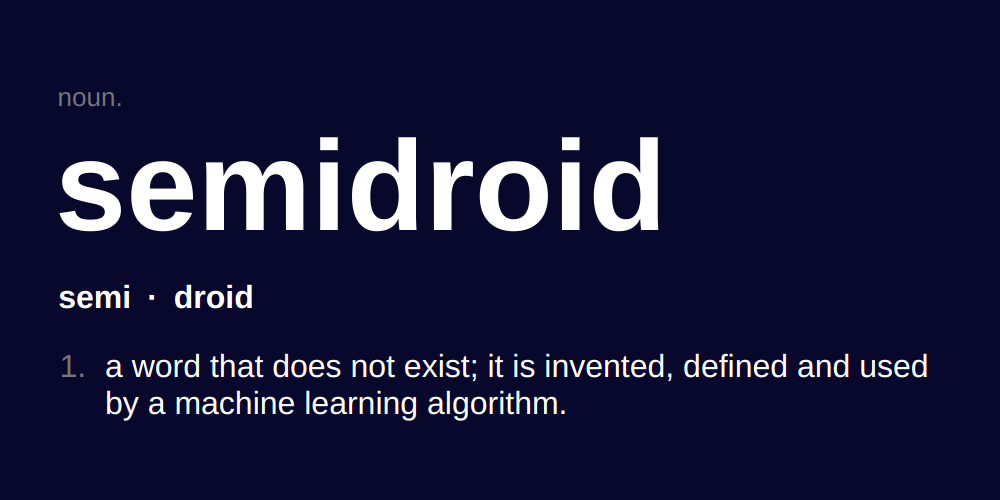
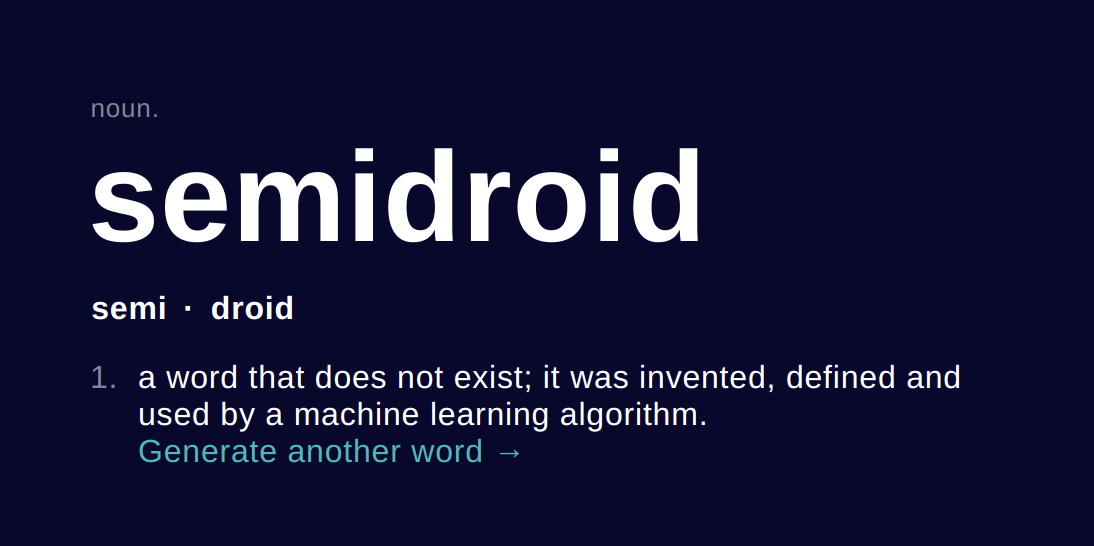
CSS min height, font spacing, new twitter image

diff --git a/website/static/index.css b/website/static/index.css
@@ -2,6 +2,7 @@ body {
   background: #08082d;
   color: white;
   font-family: -apple-system, BlinkMacSystemFont, sans-serif;
+  letter-spacing: 0.021em;
 }
 
 a {
@@ -70,7 +71,7 @@ a.darken:hover img {
 }
 .definition-zone ol li {
     margin-bottom: 20px;
-    color: #777;
+    color: rgba(255, 255, 255, 0.5);
 }
 
 .definition-section {
@@ -97,19 +98,19 @@ a.darken:hover img {
 
 .definition-zone .pos {
   font-size: small;
-  color: #777777;
+  color: rgba(255, 255, 255, 0.5);
   margin-left: 0.1em;
 }
 
 .example {
     margin-top: 0.25em;
     font-style: italic;
-    color: #777777;
+    color: rgba(255, 255, 255, 0.5);
 }
 
 .attribution {
-    font-size: small;
-    width: 100%;
+   font-size: small;
+   width: 100%;
    position: fixed;
    bottom: 10px;
 }
@@ -129,5 +130,16 @@ a.darken:hover img {
 
     .definition-zone {
         margin-top: 10vh;
+    }
+}
+
+@media screen and (max-height: 550px) {
+    .definition-zone {
+        height: auto;
+    }
+
+    .attribution {
+        width: 100%;
+        position: static;
     }
 }
